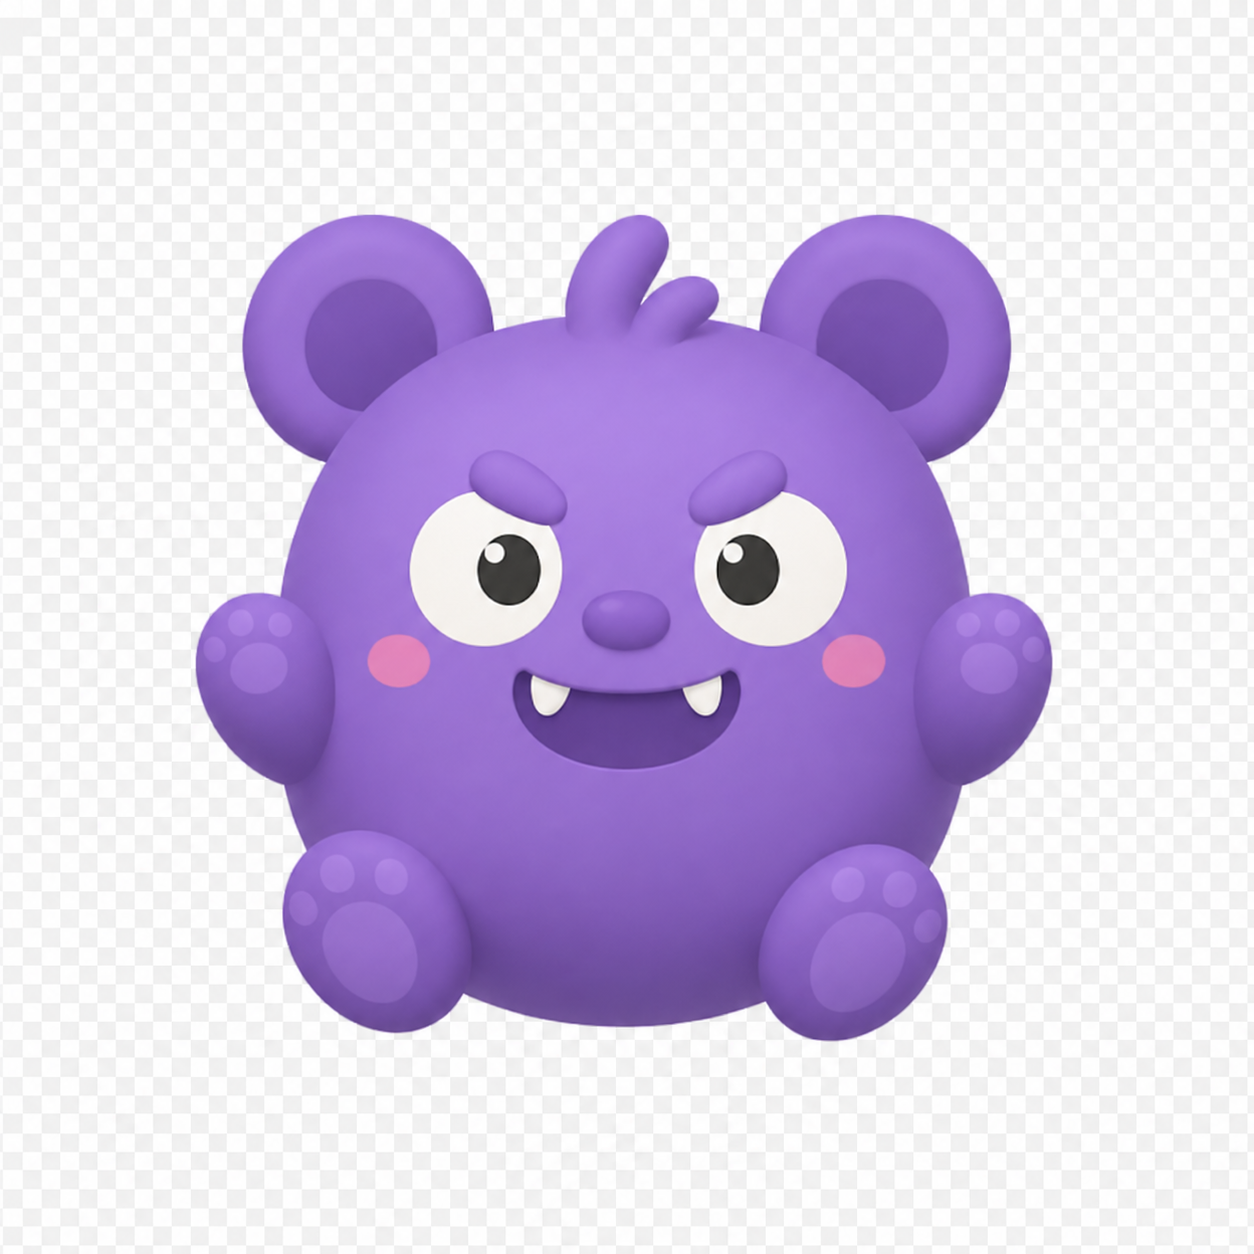
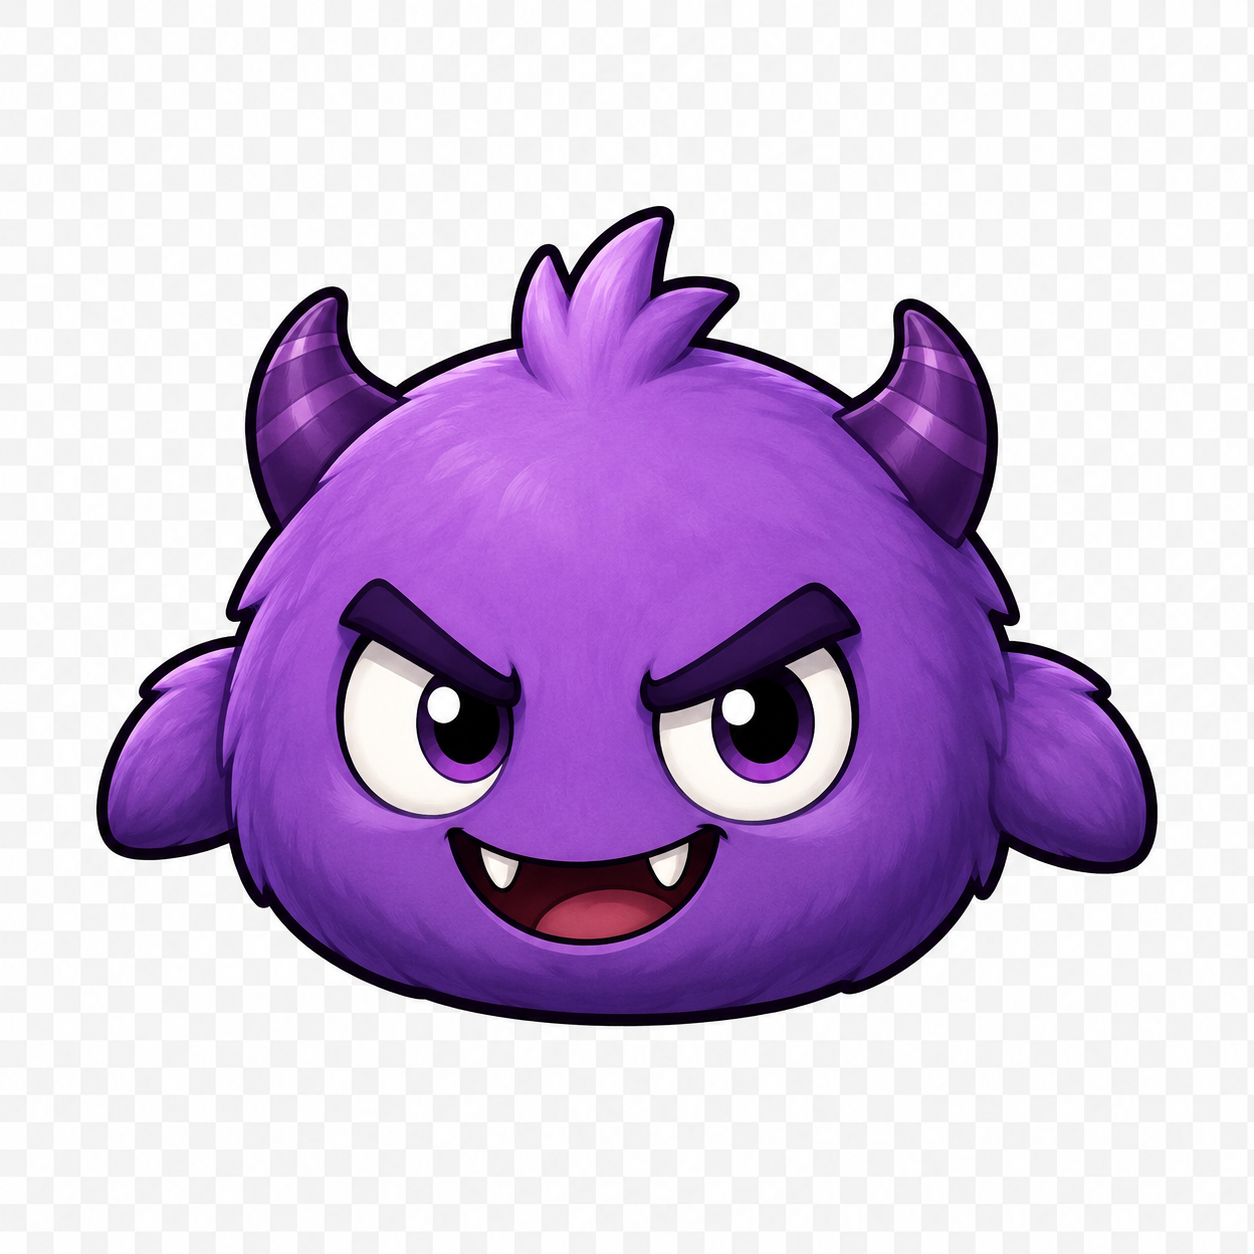
Refine title screen and gameplay sprites

diff --git a/index.html b/index.html
@@ -1935,7 +1935,7 @@
 
         if (object.kind === "enemy") {
           if (purpleMonsterImage) {
-            ctx.drawImage(purpleMonsterImage, point.x - size * 0.4, point.y - size * 0.8, size * 0.8, size * 0.8);
+            ctx.drawImage(purpleMonsterImage, point.x - size * 0.6, point.y - size * 1.2, size * 1.2, size * 1.2);
             return;
           }
           ctx.fillStyle = "#8d69e8";
@@ -2074,26 +2074,6 @@
 
       function drawTitleScene() {
         drawRoomBackground(true);
-        ctx.fillStyle = "rgba(255, 255, 255, 0.34)";
-        ctx.beginPath();
-        ctx.roundRect(34, 334, 322, 150, 18);
-        ctx.fill();
-        ctx.fillStyle = "#f08fb5";
-        ctx.beginPath();
-        ctx.arc(104, 422, 28, 0, Math.PI * 2);
-        ctx.fill();
-        ctx.fillStyle = "#69d2e7";
-        ctx.fillRect(256, 390, 48, 48);
-        ctx.fillStyle = "#f9d56e";
-        ctx.beginPath();
-        ctx.moveTo(190, 350);
-        ctx.lineTo(224, 414);
-        ctx.lineTo(156, 414);
-        ctx.closePath();
-        ctx.fill();
-        player.distance += 0.9;
-        const demoPoint = project(135, Math.sin(performance.now() / 800) * 0.55);
-        drawStar(demoPoint.x, demoPoint.y - 34, 22);
       }
 
       function updateRace(delta) {
